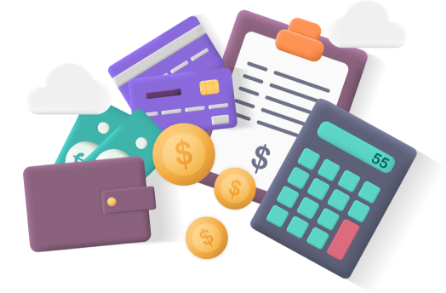
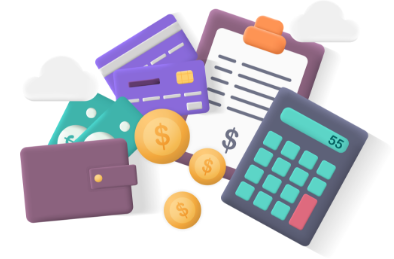
Second Commit

Changed region(s): [[0.1218, 0.5251, 0.1827, 0.556]]

diff --git a/src/screens/SplashScreen.js b/src/screens/SplashScreen.js
@@ -6,7 +6,7 @@ import { TextStyles } from '../components/atoms/Typography';
 import { Button } from 'react-native-paper';
 
 const walletWhite = require('../assets/wallet-white.png');
-const splashImage = require('../assets/new1.png')
+const splashImage = require('../assets/wallet-graphic.png')
 const styles = StyleSheet.create({
     container: {
         height: "100%",
@@ -35,10 +35,10 @@ const styles = StyleSheet.create({
         paddingTop: 5
     },
     loginbutton: {
-       marginTop: 30
+       marginTop: 30,
     },
     signUpbutton: {
-        marginTop: 20
+        marginTop: 20,
     },
     form: {
         backgroundColor: theme.palette.WHITE,
